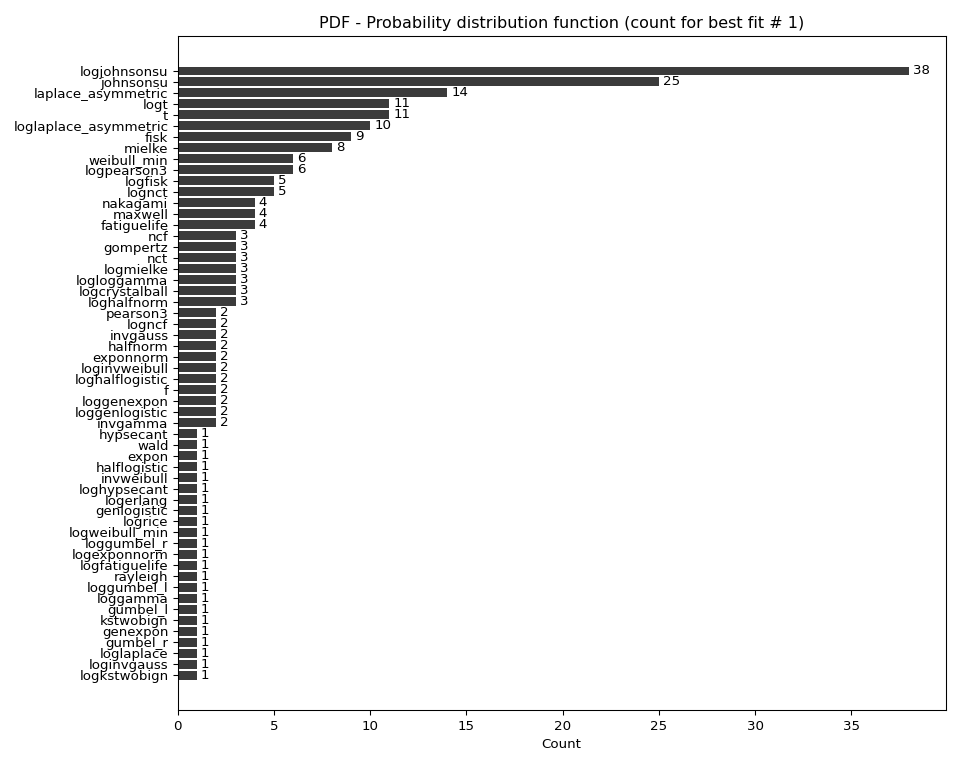
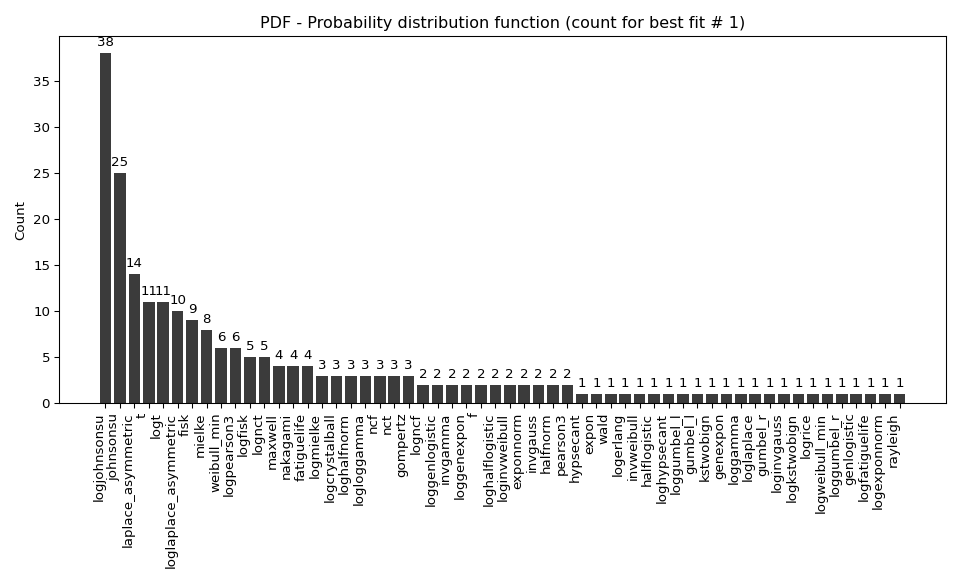
General update.

diff --git a/tool/PMP/paper.py b/tool/PMP/paper.py
@@ -244,10 +244,9 @@ for i in range(best_fit_sort_eval): # for i in range(len(edf_dist)+1): or for i 
     empirical_dist_count = df_station_record['empirical_dist'].value_counts().reset_index(name='Count').sort_values(by='Count', ascending=False)
     empirical_dist_count.index.name = 'id'
     funcs.print_log(file_log,f'EDF - Empirical distribution function count\n{empirical_dist_count.to_markdown()}', center_div=True, on_screen=print_on_screen)
-    if create_plot: # Empirical distribution count
+    if create_plot: # Empirical distribution count - Bar plot
         empirical_dist_count = empirical_dist_count.sort_values(by='Count', ascending=True)
         funcs.print_log(file_log, f'<img alt="R.HydroTools" src="graph/edf_bestfit_{i+1}.png" width="800"></img>', center_div=True, on_screen=print_on_screen)
-        # Bar plot
         fig, ax = plt.subplots(figsize=(10, 6))
         bars = ax.barh(empirical_dist_count['empirical_dist'], empirical_dist_count['Count'], color=color_plot)
         plt.yticks(rotation=0, ha='right')
@@ -262,18 +261,17 @@ for i in range(best_fit_sort_eval): # for i in range(len(edf_dist)+1): or for i 
     probability_dist_count = df_station_record['p_dist'].value_counts().reset_index(name='Count').sort_values(by='Count', ascending=False)
     probability_dist_count.index.name = 'id'
     funcs.print_log(file_log,f'PDF - Probability distribution function count\n{probability_dist_count.to_markdown()}', center_div=True, on_screen=print_on_screen)
-    if create_plot: # Probability distribution count
-        probability_dist_count = probability_dist_count.sort_values(by='Count', ascending=True)
-        funcs.print_log(file_log, f'<img alt="R.HydroTools" src="graph/pdf_bestfit_{i+1}.png" width="800"></img>', center_div=True, on_screen=print_on_screen)
-        # Bar plot
-        fig, ax = plt.subplots(figsize=(10, 8))
-        bars = ax.barh(probability_dist_count['p_dist'], probability_dist_count['Count'], color=color_plot)
-        plt.yticks(rotation=0, ha='right')
+    if create_plot: # Probability distribution count - Bar plot
+        #probability_dist_count = probability_dist_count.sort_values(by='Count', ascending=True)
+        funcs.print_log(file_log, f'<img alt="R.HydroTools" src="graph/pdf_bestfit_{i+1}.png" width="1000"></img>', center_div=True, on_screen=print_on_screen)
+        fig, ax = plt.subplots(figsize=(10, 6))
+        bars = ax.bar(probability_dist_count['p_dist'], probability_dist_count['Count'], color=color_plot)
+        plt.xticks(rotation=90, ha='right')
         ax.bar_label(bars, padding=3)
         ax.set_title(f'PDF - Probability distribution function (count for best fit # {i+1})')
-        ax.set_xlabel('Count')
+        ax.set_ylabel('Count')
         plt.tight_layout() # Important >>> prevents cutting labels
-        plt.subplots_adjust(bottom=0.075)
+        plt.subplots_adjust(bottom=0.30)
         plt.savefig(f'{output_path}graph/pdf_bestfit_{i+1}.png', dpi=dpi)
         if show_plot: plt.show()
         plt.close()

diff --git a/tool/PMP/dataset/pmax24h_out/paper/paper.md b/tool/PMP/dataset/pmax24h_out/paper/paper.md
@@ -1177,7 +1177,7 @@ PDF - Probability distribution function count
 
 <div align="center">
 
-<img alt="R.HydroTools" src="graph/pdf_bestfit_1.png" width="800"></img>
+<img alt="R.HydroTools" src="graph/pdf_bestfit_1.png" width="1000"></img>
 
 </div>
 
@@ -1292,7 +1292,7 @@ PDF - Probability distribution function count
 
 <div align="center">
 
-<img alt="R.HydroTools" src="graph/pdf_bestfit_2.png" width="800"></img>
+<img alt="R.HydroTools" src="graph/pdf_bestfit_2.png" width="1000"></img>
 
 </div>
 
@@ -1405,7 +1405,7 @@ PDF - Probability distribution function count
 
 <div align="center">
 
-<img alt="R.HydroTools" src="graph/pdf_bestfit_3.png" width="800"></img>
+<img alt="R.HydroTools" src="graph/pdf_bestfit_3.png" width="1000"></img>
 
 </div>
 
